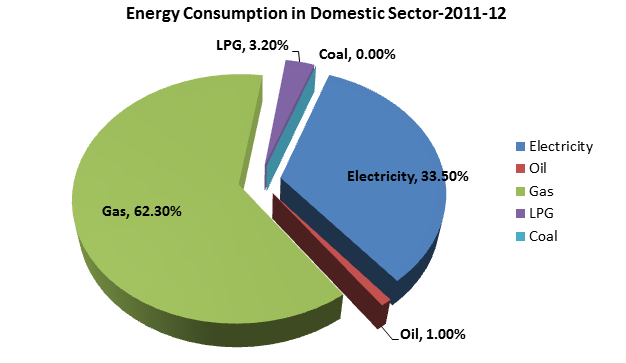
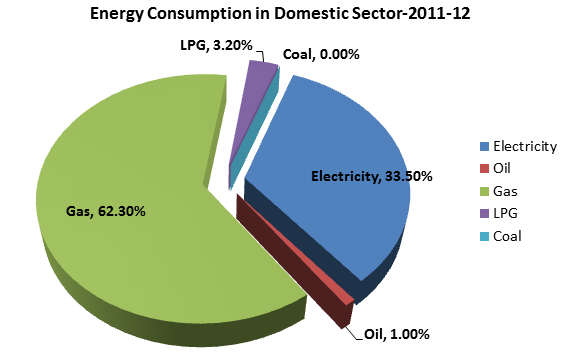
excel

diff --git a/index.html b/index.html
@@ -46,11 +46,11 @@ Giving your home a check-up
 <p> The world today faces substantial problematic issues in the form of economic crises, depleting resources and ever increasing demands of energy. The 2015 United Nations Climate Change Conference, also known as COP 21 saw the world come together with the common objective of mitigating climate change and to limit the global temperature rise to below 2&degC compared to pre-industrial levels (UNFCCC, 2015). Pakistan is among the top ten countries identified as being most vulnerable to climate change, which is apparent from the substantial losses in life and infrastructure the country has had to endure in the last decade due to increased climate induced natural disasters.   The energy sector issues and development continue to act as the key constraints in the economy. </p> 
 </div>
 
-<div class="image image-left side-para">
+<div class="image-left side-para">
  <FIGURE><img src="ES.jpg"  
 style="width:400px;height:280px;border: 2px solid grey"
 title="Power Generation by Source 2014-2015" alt="energy sources"/>
-<FIGCAPTION>Power Generation by Source </FIGCAPTION>
+ <FIGCAPTION>Power Generation by Source </FIGCAPTION> 
 </FIGURE>
 </div>
 
@@ -68,17 +68,19 @@ title="Power Generation by Source 2014-2015" alt="energy sources"/>
 <p> The breakdown of the energy consumption in various sectors reveals that the domestic sector accounts for the highest electricity consumption, with a total of 47% of the total electricity consumption. Hence, the energy consumption of residential buildings is a key area of focus for reducing the nation's overall energy demand.</P>
 </div>
 
-<div class="side-para">
-<P> Within the domestic sector, the subdivision of the energy consumption reveals that gas and electricity are the major fuels of consumption, in which gas accounts for the maximum consumption with a total of 62.3%, while electricity accounts for 33.5%, as shown in Figure. However, within a Pakistani household, the highest annual cost among the various energy sources is that of electricity, which accounts for the bulk of the annual energy bill, and thus presents the greatest potential for cost savings through efficiency measures and conservation.</p>
-</div>
-
-<div class="image"
+<div class="image side-para"
  <FIGURE><img src="DOMESTIC-BREAKDOWN.png"  
-style="width:450px;height:280px;border: 2px solid grey"
+style="width:430px;height:280px;border: 2px solid grey"
 title="Domestic energy breakdown 2011-2012" alt="energy sources"/>
 <FIGCAPTION>Energy Consumption in Domestic Sector <FIGCAPTION>
 </FIGURE>
 </div>
+
+<div class="main-body-paragraph">
+<P> Within the domestic sector, the subdivision of the energy consumption reveals that gas and electricity are the major fuels of consumption, in which gas accounts for the maximum consumption with a total of 62.3%, while electricity accounts for 33.5%, as shown in Figure. However, within a Pakistani household, the highest annual cost among the various energy sources is that of electricity, which accounts for the bulk of the annual energy bill, and thus presents the greatest potential for cost savings through efficiency measures and conservation.</p>
+</div>
+
+
 
 <div class="clearfix"></div>
 
@@ -96,7 +98,7 @@ title="Domestic energy breakdown 2011-2012" alt="energy sources"/>
 <div  class="last-paragraph"
 <h2> <span class="heading">Calculate Your Electricity Consumption </span> </h2>
 <p> To find out how much electricity is being consumed by your major electrcial appliances and what it means in terms of cost values, use our simple consumption calculator </p>
-<a class="button" style="margin-left: 220px" href="C:\Users\Rihab\Documents\ACADEMIC WORK\MASTER THESIS\electricity consumption calculator.xlsx" download>Download Energy Consumption Calculator </a>
+<a class="button" style="margin-left: 220px" href="electricity consumption calculator.xlsx" download>Download Energy Consumption Calculator </a>
 <p></p>
 
 </div>

diff --git a/main.css b/main.css
@@ -135,9 +135,9 @@ line-height: 12px;
 }
 
 .image{
-	text-align: center;
-	margin-left: 300px;
-font-size: 14px;
+	margin-left:80px;
+	margin-right:20px;
+	padding-right:20px;
 }
 
 .image-left {
@@ -171,7 +171,8 @@ font-size: 14px;
 font-family: 'Varela Round', sans-serif;
 font-color: #211F24;
 margin-right: 240px;
-padding-left:80px;
+margin-left: 40px;
+padding-left:40px;
 padding-right:80px;
 text-align: justify;
 }
@@ -191,7 +192,6 @@ text-align: justify;
 .clearfix{
     clear:both
 }
-
 
 .last-paragraph {
 	background: #E8DD6D;
